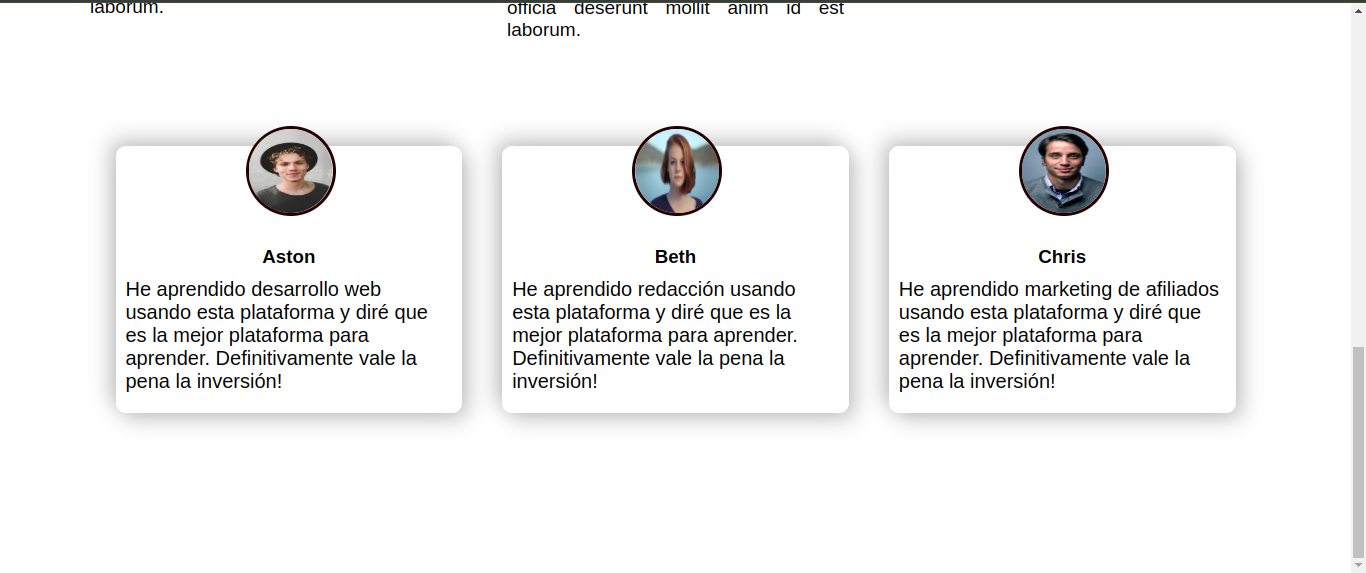
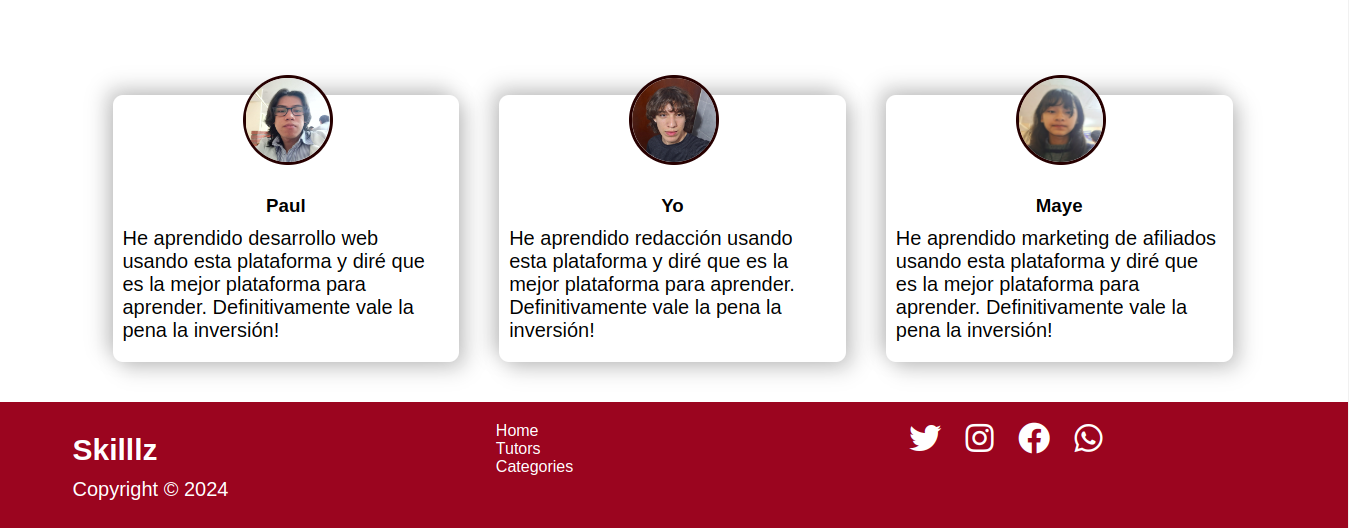
se sustituyeron imagenes

diff --git a/index.html b/index.html
@@ -52,19 +52,19 @@
           <div class="flex">
             <div class="stat">
               <i class="fa fa-folder-open fa-2x" aria-hidden="true"></i>
-              <h3 class="title">Over 300 available courses</h3>
+              <h3 class="title">Con material de las pruebas ICFES</h3>
               <p class="text">Lorem ipsum dolor sit amet, consectetur adipisicing elit, sed do eiusmod tempor incididunt ut labore et dolore magna aliqua. Ut enim ad minim veniam, quis nostrud exercitation ullamco laboris nisi ut aliquip ex ea commodo consequat. Duis aute irure dolor in reprehenderit in voluptate velit esse cillum dolore eu fugiat nulla pariatur.
                 Excepteur sint occaecat cupidatat non proident, sunt in culpa qui officia deserunt mollit anim id est laborum.</p>
             </div>
             <div class="stat">
               <i class="fa fa-graduation-cap fa-2x" aria-hidden="true"></i>
-              <h3 class="title">Free certificate offered on all courses</h3>
+              <h3 class="title">Aprendizaje gratuito</h3>
               <p class="text">Lorem ipsum dolor sit amet, consectetur adipisicing elit, sed do eiusmod tempor incididunt ut labore et dolore magna aliqua. Ut enim ad minim veniam, quis nostrud exercitation ullamco laboris nisi ut aliquip ex ea commodo consequat. Duis aute irure dolor in reprehenderit in voluptate velit esse cillum dolore eu fugiat nulla pariatur.
                 Excepteur sint occaecat cupidatat non proident, sunt in culpa qui officia deserunt mollit anim id est laborum.</p>
             </div>
             <div class="stat">
               <i class="fa fa-credit-card-alt fa-2x" aria-hidden="true"></i>
-              <h3 class="title">Book 1on1 session for as low as $5</h3>
+              <h3 class="title">Con preguntas tipo ICFES diarias</h3>
               <p class="text">Lorem ipsum dolor sit amet, consectetur adipisicing elit, sed do eiusmod tempor incididunt ut labore et dolore magna aliqua. Ut enim ad minim veniam, quis nostrud exercitation ullamco laboris nisi ut aliquip ex ea commodo consequat. Duis aute irure dolor in reprehenderit in voluptate velit esse cillum dolore eu fugiat nulla pariatur.
                 Excepteur sint occaecat cupidatat non proident, sunt in culpa qui officia deserunt mollit anim id est laborum.</p>
             </div>
@@ -76,23 +76,23 @@
       <div class="testimonial grid-3">
         <div class="card">
           <div class="circle">
-            <img src="img/4.jpg" alt="">
+            <img src="img/paul.jpg" alt="">
           </div>
-          <h3>Aston</h3>
+          <h3>Paul</h3>
           <p>He aprendido desarrollo web usando esta plataforma y diré que es la mejor plataforma para aprender. Definitivamente vale la pena la inversión!</p>
         </div>
         <div class="card">
           <div class="circle">
-            <img src="img/5.jpg" alt="">
+            <img src="img/yo.jpg" alt="">
           </div>
-          <h3>Beth</h3>
+          <h3>Yo</h3>
           <p>He aprendido redacción usando esta plataforma y diré que es la mejor plataforma para aprender. Definitivamente vale la pena la inversión!</p>
         </div>
         <div class="card">
           <div class="circle">
-            <img src="img/6.jpg" alt="">
+            <img src="img/maye.jpg" alt="">
           </div>
-          <h3>Chris</h3>
+          <h3>Maye</h3>
           <p>He aprendido marketing de afiliados usando esta plataforma y diré que es la mejor plataforma para aprender. Definitivamente vale la pena la inversión!</p>
         </div>
       </div>

diff --git a/css/estilos.css b/css/estilos.css
@@ -168,7 +168,7 @@
   .title {
     color: black;
     font-size: 20px;
-    text-align: left;
+    text-align: center;
     padding-left: 10px;
     padding-top: 10px;
   }
@@ -325,6 +325,8 @@ footer {
     .navbar {
       height: 100px;
     }
+  }
+    
 /* Cambia la alineación. El logo del título se queda en la parte superior, los enlaces de navegación ahora se muestran debajo*/
 
 .navbar .flex {
@@ -380,7 +382,7 @@ footer {
 
 .circle {
       background-color: transparent;
-      border:3px solid purple;
+      border:3px solid #240000;
       height:90px;
       position: relative;
       top: -30px;
